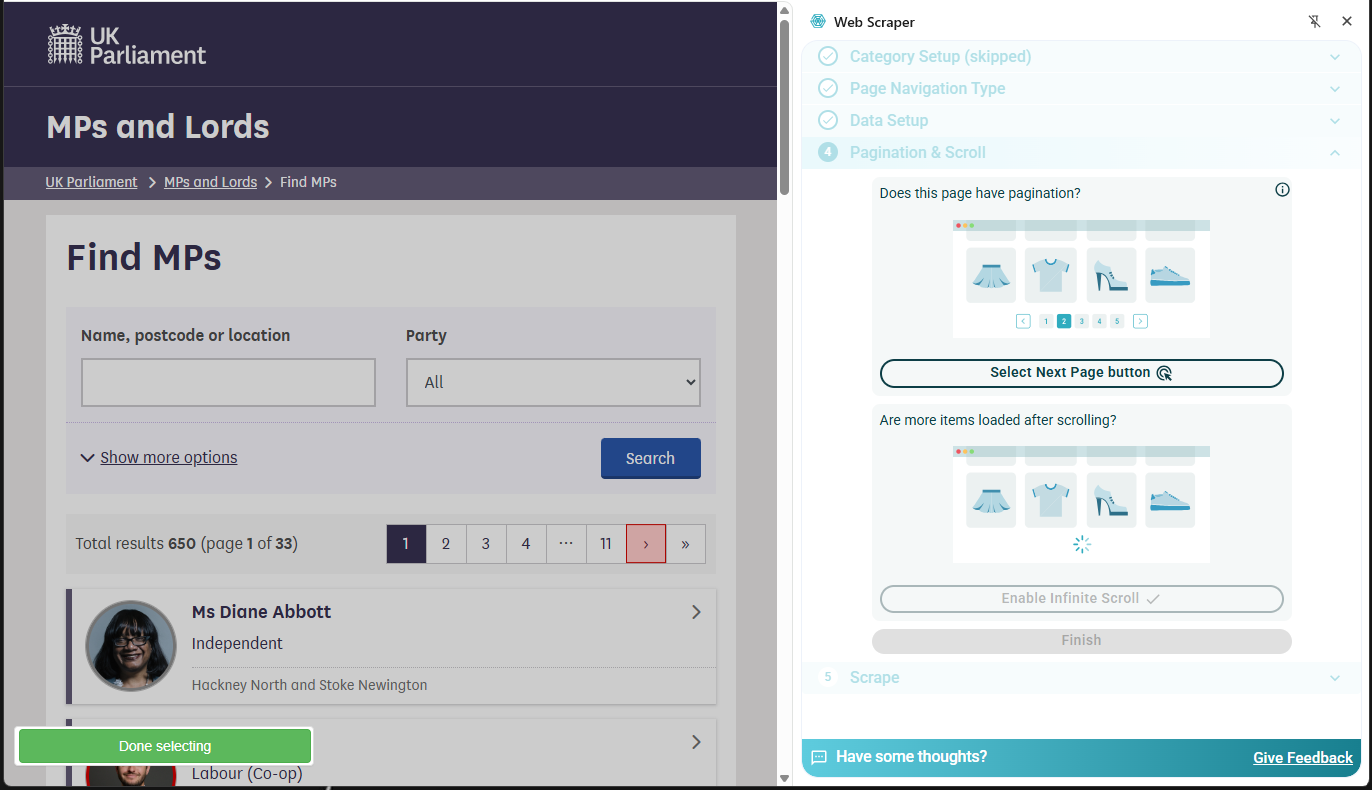
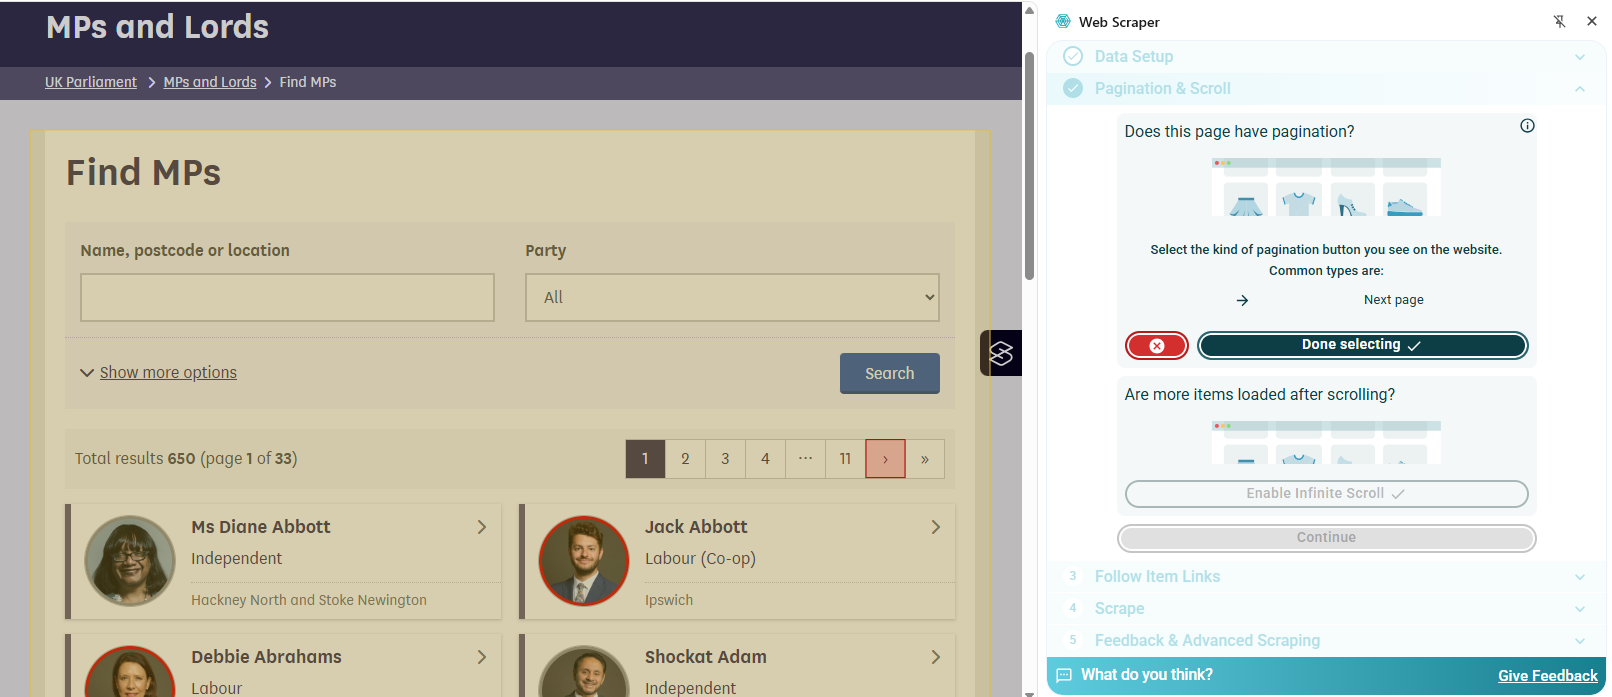
Updated using web scraper section with new images

diff --git a/episodes/Manual-scraping.md b/episodes/Manual-scraping.md
@@ -20,9 +20,9 @@ After completing this episode, participants should be able to...
 - Assess the appropriate method for gathering the required data
 ::::::::::::::::::::::::::::::::::::::::::::::::
 
-# Using the Web Scraper Chrome extension
+# Using the Chrome Web Scraper extension
 
-Now we are finally ready to do some web scraping using Web Scraper Chrome extension. If you haven’t it installed on your machine, please refer to the [Setup instructions](/learners/setup.md).
+Now we are ready to do some web scraping using the Chrome Web Scraper extension. If you haven’t it installed on your machine, please refer to the [Setup instructions](/learners/setup.md).
 
 For this lesson, we will again be using the UK Members of Parliament webpages. We are interested in scraping a list of MPs and their constituencies with the help of Web Scraper.
 
@@ -38,23 +38,33 @@ With the extension installed the Wizard window can be opened by selecting the *W
 
 ![Web Scraper Wizard](fig/web-scraper-gui.png){alt="Screenshot of Web Scraper wizard dialog"}
 
-The wizard allows you to select any links to navigate to other pages. In our example we don't need to do this so we will select *Skip*.
-In the *Page Navigation Type* tab, select whether to make selections from the listing page or whether to open links.
+The first *Data Setup* page shows data which is automatically extracted from the web page without any intervention. The image above shows this data.
 
-- We will use the *Listing page* option.
-- Select Continue - this will auto-generate selectors and give a preview of the data.
+The titles can be edited to give something more meaningful as in the image below.
 
-The image below shows an example of the data which is automatically extracted from this web page without any selection:
+![Automatically scraped MP data with edited record titles](fig/web-scraper-titles.png){alt="Screenshot showing amended record titles"}
 
-![Automatically scraped MP data](fig/scraper-mp-data.png){alt="Screenshot of automatically scraped MP data"}
-
+At this point the data selected can be exported as an Excel spreadsheet or a comma separate variable (csv) file using the appropriate download buttons just below the data. 
 Note that this has only gathered the names of MPs for one page, collecting about 20 entries out of a total of 650. The next section *Pagination & Scroll* allows multiple pages to be selected for scraping:
 
 - Choose *Select Next Page button*.
 - Select the appropriate means of selecting more pages. This could be either a set of numbered pages or a 'next page' button. Several buttons can be selected if needed.
-- On completion click the green *Done selecting* button.
+- On completion click the *Done selecting* button.
+- Leave the *Enable Infite Scroll* button checked.
+- Select *Continue*
 
 ![Pagination & Scroll selection](fig/scraper-pagination.png){alt="Screenshot of pagination selection"}
+
+
+The next wizard page, *Follow Item Links* allows you to select links to navigate to other pages. In our example we don't need to do this so we will select *Skip*.
+
+
+The final tab, *Scrape* shows a message saying that the scraper configuration is ready.
+
+- Select the *Scrape the page* button
+
+You will see a new window open which will show the page selection button updating as the data from each page is scraped. Finally a table will show that 650 records have been scraped with the first 100 displayed.
+
 
 On selection of the *Finish* button the dialog will show that scraper configuration is ready and the *Scrape the page* button can be selected.
 
